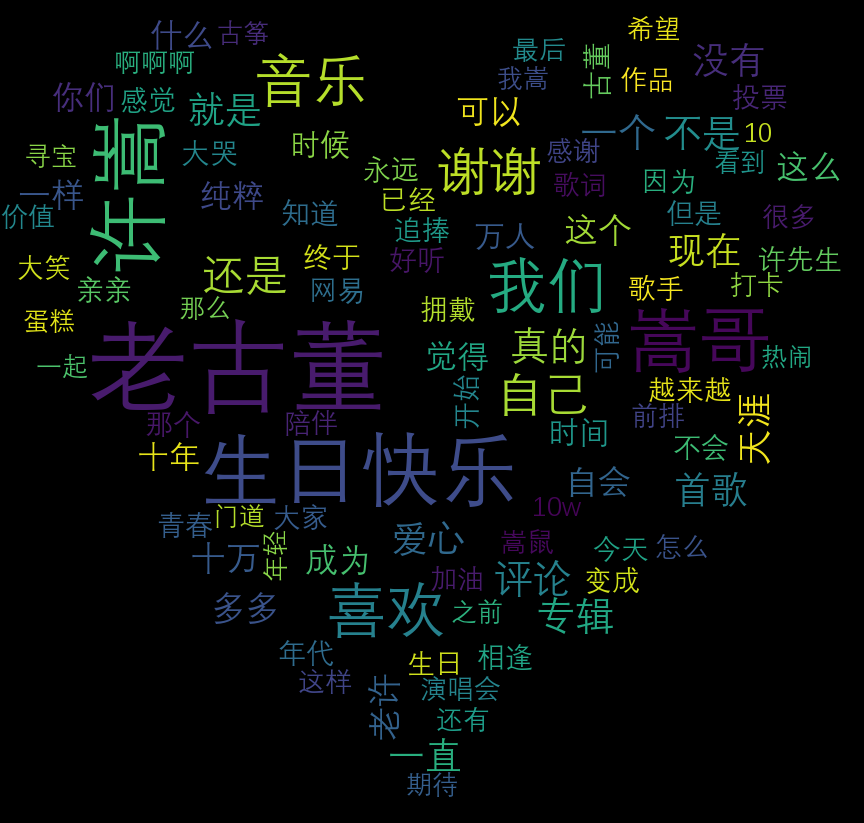
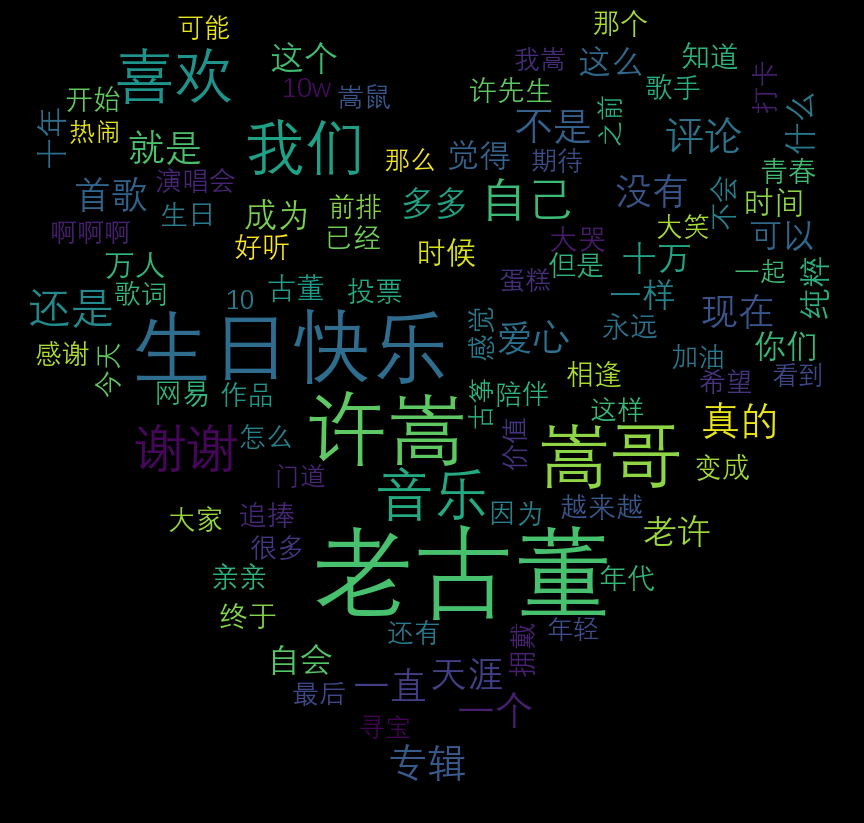
粉丝分类 绘制词云

Changed region(s): [[0.0, 0.0, 0.9688, 0.9721]]

diff --git a/run.py b/run.py
@@ -1,23 +1,88 @@
-import sys
-import pymongo
+import requests
 import time
+import pymysql
+from bs4 import BeautifulSoup
+from Spiders import mysql
 from Helper.ApiHelper import api
-from Helper.SqlHelper import getMongoTx
-from Spiders.mongodb import get_artist_id, get_songs, get_comments_multi_thread
+from Helper.SqlHelper import getMySqlTx
+from Helper import Database
 
 
-start_time = time.time()
-client = pymongo.MongoClient(getMongoTx())
-db = client['163music']
-Api = api()
-Api.startApi()
-name = input('请输入歌手名：').strip()
-try:
-    artist_info = get_artist_id(name, Api)
-    songs = get_songs(artist_info, Api)
-    print(sys.getsizeof(songs))
-    for index, song_info in enumerate(songs):
-        get_comments_multi_thread(song_info, Api, db)
-finally:
-    Api.stopApi()
-print(time.time() - start_time)
+def get_loccodes():
+    # 中华人民共和国行政区划代码
+    url = 'http://www.mca.gov.cn/article/sj/xzqh/2019/201901-06/201905271445.html'
+    locs = {}
+    try:
+        r = requests.get(url)
+        if r.status_code == 200:
+            r.encoding = "utf-8"
+            soup = BeautifulSoup(r.text, 'lxml')
+            items = soup.find_all('tr', attrs={"height": "19"})
+            # 城市编码的个数
+            print(print(len(items)))
+            for item in items:
+                # 提取数据
+                # print(item.find_all('td')[1].text, item.find_all('td')[2].text)
+                locs[item.find_all('td')[1].text] = item.find_all('td')[2].text
+    except Exception as e:
+        print("获取失败！" + str(e))
+
+    # 可视化输出
+    # print(locs)
+    return locs
+
+if __name__ == '__main__':
+    # print(get_loccodes())
+
+    # 初始化数据库
+    Database.init_db()
+
+    Api = api()
+    Api.startApi()
+    name = input('请输入歌手名：').strip()
+    while name == '':
+        name = input('请输入歌手名：').strip()
+    start_time = time.time()
+    try:
+        # db = pymysql.connect(**getMySqlTx())
+
+        # 搜索歌手
+        try:
+            artist_info = mysql.get_artist_id(name, Api)
+            print(artist_info)
+            # 创建粉丝表
+            db = pymysql.connect(**getMySqlTx())
+            Database.create_fans_table(artist_info[0], db)
+            db.close()
+        except Exception as e:
+            print('搜索歌手出错' + str(e))
+            exit()
+
+        # 获取歌手前50首热门歌曲ID
+        try:
+            songs = mysql.get_songs(artist_info, Api)
+        except Exception as e:
+            print('获取热门歌曲出错' + str(e))
+            exit()
+
+        # 为每首歌创建表，并爬取评论存入表中
+        try:
+            for song_info in songs:
+                db = pymysql.connect(**getMySqlTx())
+                Database.create_comments_table(song_info['sid'], db)
+                db.close()
+                mysql.get_comments_multi_thread(song_info, Api)
+        except Exception as e:
+            print('爬取评论出错' + str(e))
+            exit()
+
+        finally:
+            db.close()
+
+    except Exception as e:
+        print('test' + str(e))
+    finally:
+        Api.stopApi()
+        # db.close()
+    # print(artist_info)
+    print(time.time() - start_time)

diff --git a/Spiders/mysql.py b/Spiders/mysql.py
@@ -1,7 +1,7 @@
 import requests
 import pymysql
 from concurrent.futures import ThreadPoolExecutor
-from Helper import models
+from Helper import Database
 from Helper.SqlHelper import getMySqlTx
 
 
@@ -60,24 +60,35 @@ def request_comment(url, song_info, api):
     try:
         for item in resp.json()['comments']:
             comments.append(
-                [item['commentId'], song_info['sid'], item['likedCount'], item['user']['userId'], item['user']['nickname'],item['content']])
-        cursor = db.cursor()
-        sql = "INSERT INTO " + str(song_info['sid']) + "_Comments VALUES (%s, %s, %s, %s, %s, %s)"
-        for comment in comments:
-            try:
-                cursor.execute(sql, comment)
-                # format(song_info['sid'], comment['cid'],comment['sid'],comment['likedCount'],comment['uid'],comment['uname'],comment['content']))
-            except Exception as e:
-                print('INSERT INTO Comments' + str(e))
-                db.rollback()
-            db.commit()
+                [item['commentId'],
+                song_info['sid'],
+                item['likedCount'],
+                item['user']['userId'],
+                item['user']['nickname'],
+                item['content']]
+            )
     except Exception as e:
         print(e)
         api.stopApi()
         api.startApi()
-    finally:
-        db.close()
         request_comment(url, song_info, api)
+    cursor = db.cursor()
+    sql_comments = "INSERT INTO " + str(song_info['sid']) + "_Comments VALUES (%s, %s, %s, %s, %s, %s)"
+    for comment in comments:
+        try:
+            cursor.execute(sql_comments, comment)
+            # format(song_info['sid'], comment['cid'],comment['sid'],comment['likedCount'],comment['uid'],comment['uname'],comment['content']))
+        except Exception as e:
+            print('INSERT INTO Comments' + str(e))
+            db.rollback()
+        db.commit()
+        try:
+            cursor.execute("INSERT INTO `163music_new`.`"+ str(song_info['aid']) +"_FansInfo`(`id`, `nickname`, `level`, `city`, `followeds`, `follows`, `playlists`) " \
+                "VALUES ({}, NULL, NULL, NULL, NULL, NULL, NULL);".format(comment[3]))
+        except Exception as e:
+            pass
+        db.commit()
+    db.close()
 
 def get_comments_multi_thread(song_info, api):
     url_get_comment = 'http://localhost:3000/comment/music?id={}&limit=100&offset={}'.format(song_info['sid'], 0)
@@ -93,14 +104,10 @@ def get_comments_multi_thread(song_info, api):
         song_info['sid'], i) for i in range(0, 5500, 100)]
     urls.extend(['http://localhost:3000/comment/music?id={}&limit=100&offset={}'.format(
         song_info['sid'], i) for i in range(total - 5500, total, 100)])
-    print(len(urls))
+    # for url in urls:
+    #     print(url)
     song_infos = [song_info for i in range(0,len(urls))]
     apis = [api for i in range(0,len(urls))]
     # dbs = [db for i in range(0, len(urls))]
-    with ThreadPoolExecutor(150) as executor:
+    with ThreadPoolExecutor(128) as executor:
         executor.map(request_comment, urls, song_infos, apis)
-
-def get_fans_info(aid, db):
-    fans = models.select_fans_id(aid, db)
-
-    pass

diff --git a/wordcloud_test/mysql.py b/wordcloud_test/mysql.py
@@ -1,0 +1,66 @@
+import collections
+import os
+import re
+import wordcloud
+import numpy
+import jieba
+import pymysql
+from PIL import Image
+from Helper.SqlHelper import getMySqlTx
+from Helper import BASE_PATH
+
+
+def get_comments(id):
+    comments = []
+    db = pymysql.connect(**getMySqlTx())
+    cursor = db.cursor()
+    cursor.execute("SELECT content FROM {}_Comments".format(id))
+    for row in cursor.fetchall():
+        comments.append(row[0])
+    db.close()
+    return comments
+
+def get_ids():
+    ids = []
+    db = pymysql.connect(**getMySqlTx())
+    cursor = db.cursor()
+    cursor.execute("SELECT id FROM `T_HotSongs` ORDER BY rating")
+    for row in  cursor.fetchall():
+        ids.append(row[0])
+    db.close()
+    return ids
+
+def partition(comments):
+    result = []
+    pattern = re.compile(u'\t|\n|\.|-|:|;|\)|\(|\?|"|。|，|？|！|“|”|\[|\]|—|《|》| |~|]|（|）|…|、|\+|：')
+    for item in comments:
+        words = jieba.cut(item)
+        for word in words:
+            if not re.match(pattern, word) and len(word) != 1:
+                result.append(word)
+        if len(result) != 0:
+            result.pop()
+    return result
+
+def word_count(word_list):
+    word_counts = collections.Counter(word_list)
+    return word_counts
+
+def draw_picture(word_counts, sid):
+    mask = numpy.array(Image.open(os.path.join(BASE_PATH, 'wordcloud_test\picture.png')))
+    w = wordcloud.WordCloud(
+        width=960,
+        height=540,
+        font_path=os.path.join(BASE_PATH,'wordcloud_test\Deng.ttf'),
+        mask=mask,
+        max_words=100,
+        max_font_size=100,
+        background_color='white',
+    )
+    w.generate_from_frequencies(word_counts)
+    w.to_file(os.path.join(BASE_PATH, 'wordcloud_pictures\{}.png'.format(sid)))
+
+if __name__ == '__main__':
+    ids = get_ids()
+    print(type(ids))
+    print(ids)

diff --git a/test.py b/test.py
@@ -1,11 +1,6 @@
 import requests
-import time
-import pymysql
 from bs4 import BeautifulSoup
-from Spiders import mysql
-from Helper.ApiHelper import api
-from Helper.SqlHelper import getMySqlTx
-from Helper import models
+from wordcloud_test import mysql as wcmysql
 
 
 def get_loccodes():
@@ -33,28 +28,15 @@ def get_loccodes():
 
 if __name__ == '__main__':
     # print(get_loccodes())
+    ids = wcmysql.get_ids()
+    for sid in ids:
+        comments = wcmysql.get_comments(sid)
+        partition_result = wcmysql.partition(comments)
+        wordlist = wcmysql.word_count(partition_result)
+        draw_picture = wcmysql.draw_picture(wordlist, sid)
 
-    models.init_db()
-    Api = api()
-    Api.startApi()
-    name = input('请输入歌手名：').strip()
-    while name == '':
-        name = input('请输入歌手名：').strip()
-    start_time = time.time()
-    try:
-        # db = pymysql.connect(**getMySqlTx())
-        artist_info = mysql.get_artist_id(name, Api)
-        print(artist_info)
-        songs = mysql.get_songs(artist_info, Api)
-        for song_info in songs:
-            db = pymysql.connect(**getMySqlTx())
-            models.create_comments_table(song_info['sid'], db)
-            db.close()
-            mysql.get_comments_multi_thread(song_info, Api)
-    except Exception as e:
-        print('test' + e)
-    finally:
-        Api.stopApi()
-        # db.close()
-    # print(artist_info)
-    print(time.time() - start_time)
+    # 测试
+    # comments = wcmysql.get_comments(ids[0])
+    # partition_result = wcmysql.partition(comments)
+    # wordlist = wcmysql.word_count(partition_result)
+    # draw_picture = wcmysql.draw_picture(wordlist, ids[0])

diff --git a/Helper/Database.py b/Helper/Database.py
@@ -57,19 +57,21 @@ def create_comments_table(sid, db):
                         PRIMARY KEY (cid) \
                     ) COMMENT = '评论表 ';;".format(sid))
 
-def select_fans_id(aid, db):
+def create_fans_table(aid, db):
     '''
-    从数据库中查询hotsong的评论者，返回包含50个评论者ID的SSCursor的list
+    创建歌手粉丝表
     :param aid: 歌手ID
-    :param db: 数据库链接
+    :param db: 数据库连接
     :return:
     '''
-    cursors = []
     cursor = db.cursor()
-    cursor.execute("SELECT T_HotSongs.id FROM T_HotSongs WHERE T_HotSongs.id = {} ORDER BY T_HotSongs.rating".format(aid))
-    sids = cursor.fetchall()
-    for sid in sids:
-        cursor = db.cursor(pymysql.cursors.SSCursor)
-        cursor.execute("SELECT DISTINCT {}_Comments.uid FROM {}_Comments;".format(sid, sid))
-        cursors.append(cursor)
-    return cursors
+    cursor.execute("CREATE TABLE {}_FansInfo( \
+                        id INT NOT NULL   COMMENT 'id 粉丝ID' , \
+                        nickname VARCHAR(128)    COMMENT 'nickname 昵称' , \
+                        level INT    COMMENT 'level 等级' , \
+                        city INT    COMMENT 'city 城市' , \
+                        followeds INT    COMMENT 'followeds 粉丝数' , \
+                        follows INT    COMMENT 'follows 关注数' , \
+                        playlists INT    COMMENT 'playlists 歌单数量' , \
+                        PRIMARY KEY (id) \
+                    ) COMMENT = '粉丝表 ';;".format(aid))

diff --git a/Helper/ApiHelper.py b/Helper/ApiHelper.py
@@ -9,8 +9,9 @@ catlist = {'流行':'LiuXing', '影视原声':'YingShiYuanYin', '华语':'HuaYu'
 class api():
     def __changeIP(self):
         try:
-            with open(r"G:\163music\util\request.js", "r+", encoding="utf8") as f:
-                f.seek(2779)
+            with open(r"D:\163music\util\request.js", "r+", encoding="utf8") as f:
+                f.seek(2807)
+				# ASUS 2807
                 random.seed(a=None)
                 ip = repr(random.randint(100, 255)) + '.' + \
                      repr(random.randint(100, 255))
@@ -24,7 +25,7 @@ class api():
         self.__changeIP()
         self.__api = subprocess.Popen(
             'node app.js',
-            cwd=r"G:\163music",
+            cwd=r"D:\163music",
             stdout=None,
             stderr=None
         )

diff --git a/wordcloud_test/test.py b/wordcloud_test/test.py
@@ -17,6 +17,7 @@ def save_comments():
     with open('comments.txt', 'w', encoding='utf-8') as f:
         for item in result:
             f.write(item['content'].replace('\n', '') + '\n')
+
 def partition():
     result = []
     pattern = re.compile(u'\t|\n|\.|-|:|;|\)|\(|\?|"|。|，|？|！|“|”|\[|\]|—|《|》| |~|]|（|）|…|、|\+|：')
@@ -59,4 +60,4 @@ def generate_image(word_counts):
     w.to_file('test.png')
 
 if __name__ == '__main__':
-    generate_image(word_count(partition()))
+    print(type(word_count(partition())))

diff --git a/Helper/__init__.py b/Helper/__init__.py
@@ -1,1 +1,2 @@
-__all__ = ["SqlHelper,ApiHelper"]
+import os
+BASE_PATH = BASE_DIR = os.path.dirname(os.path.dirname(os.path.abspath(__file__)))
